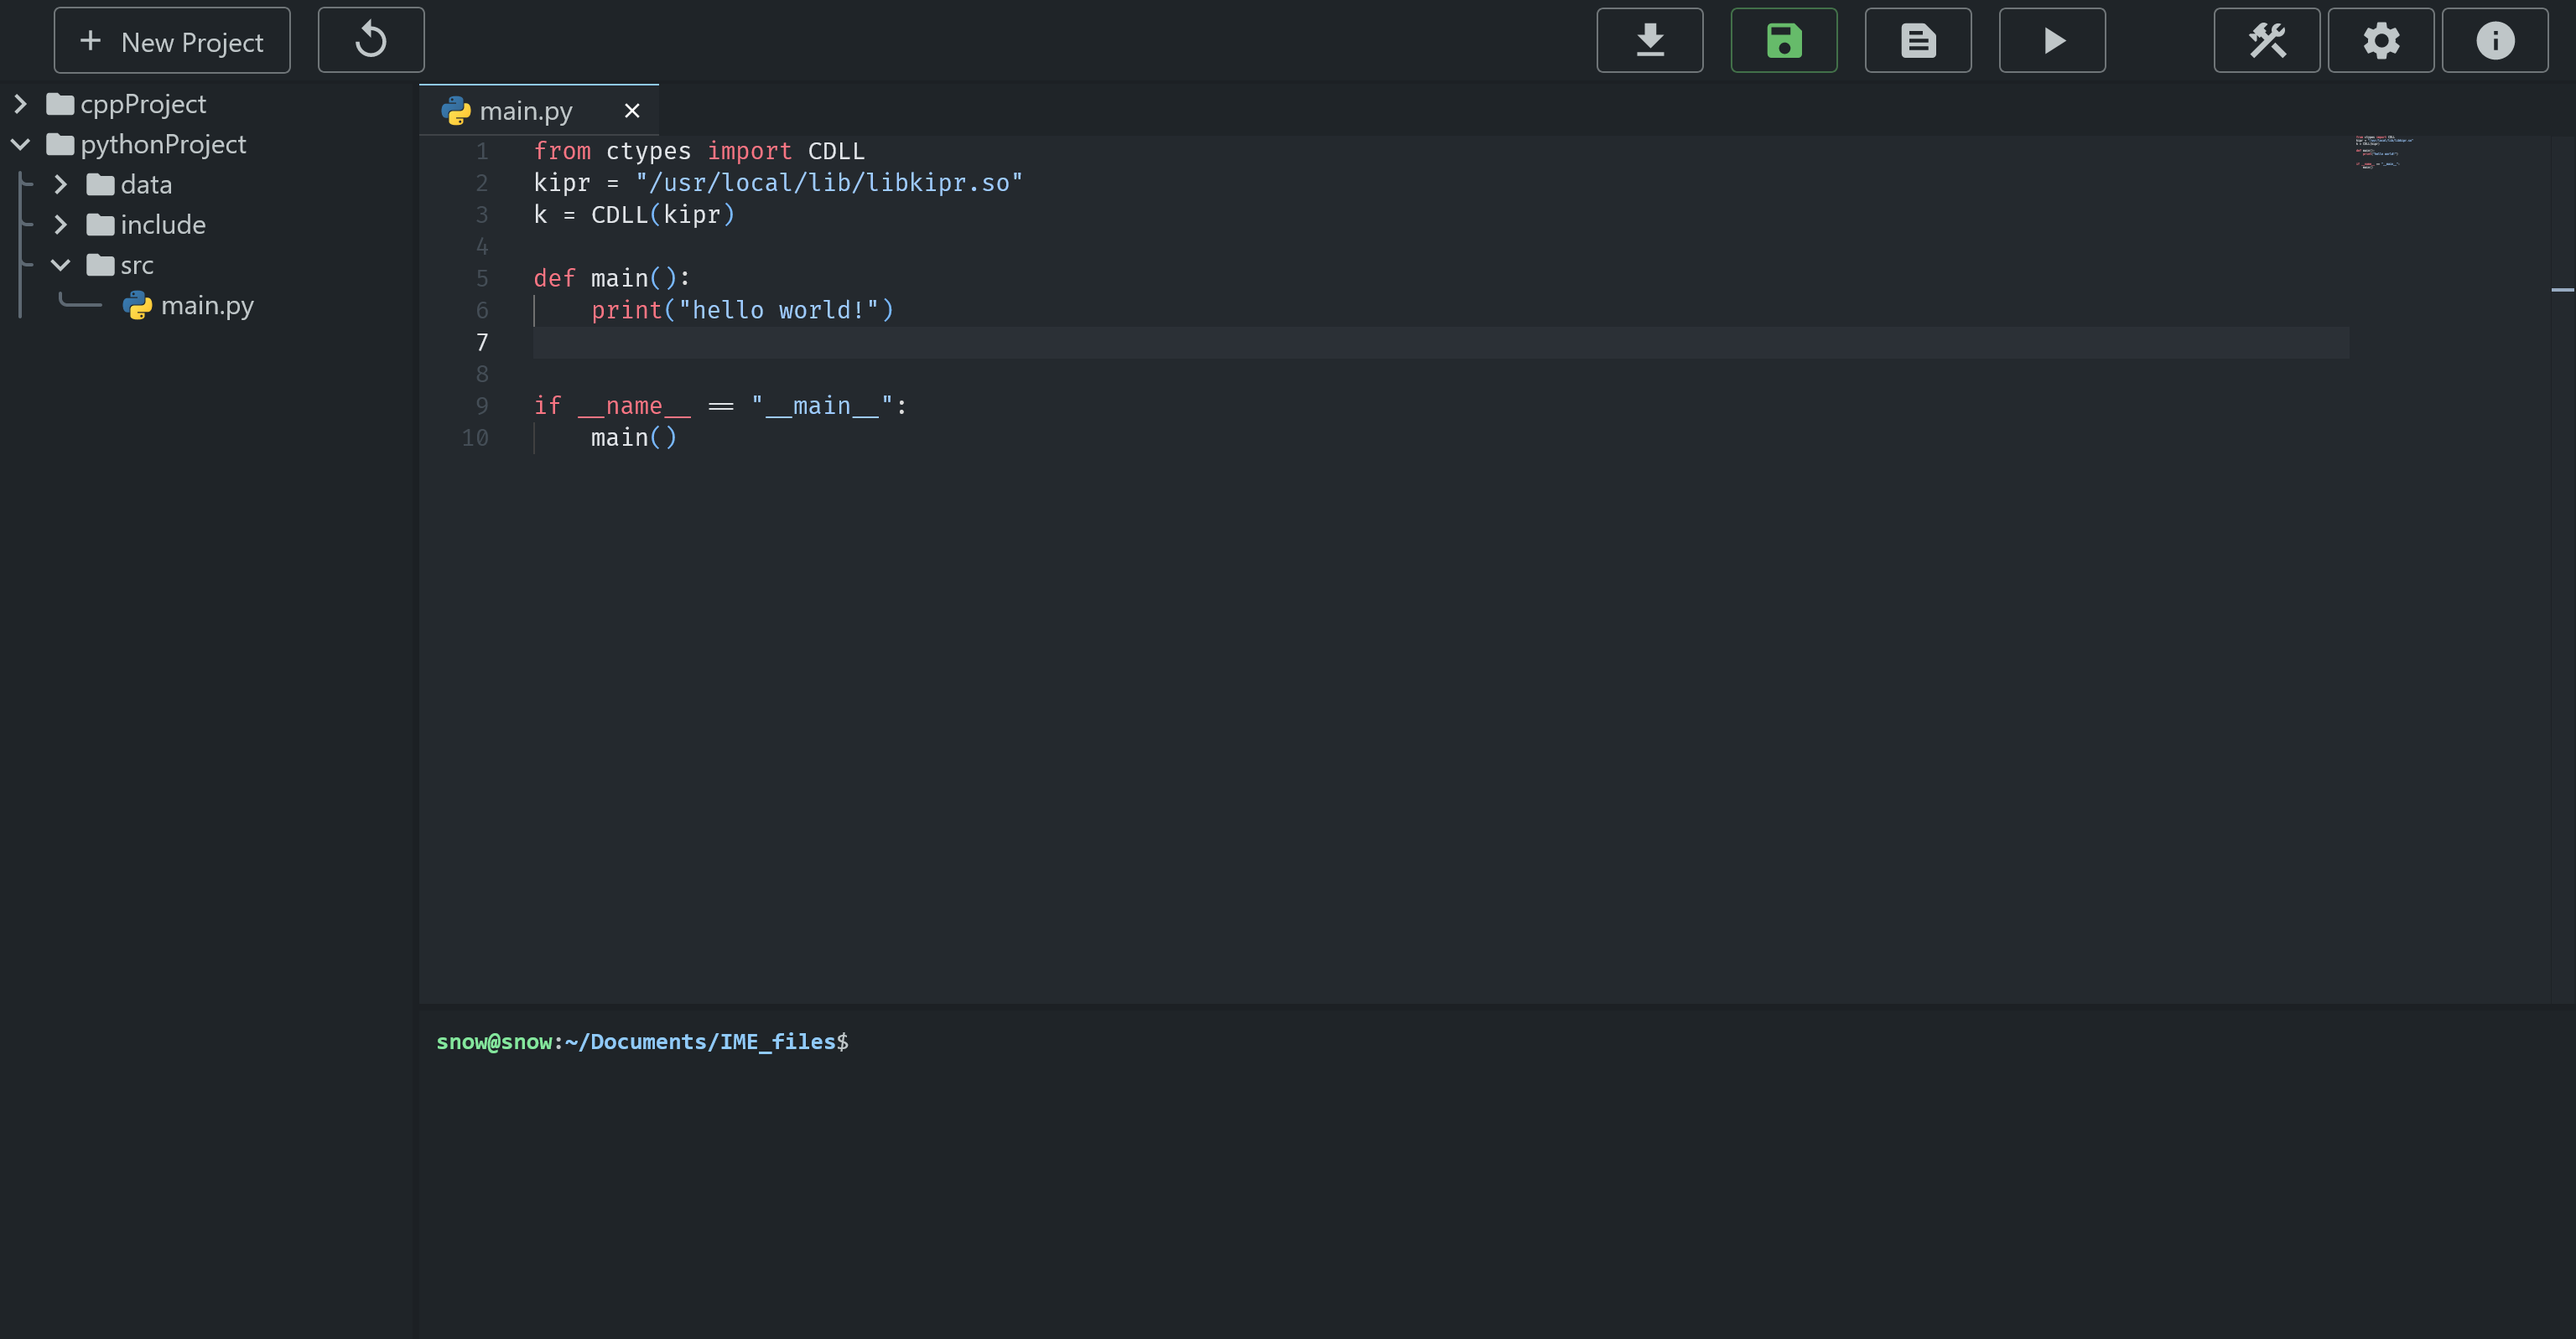
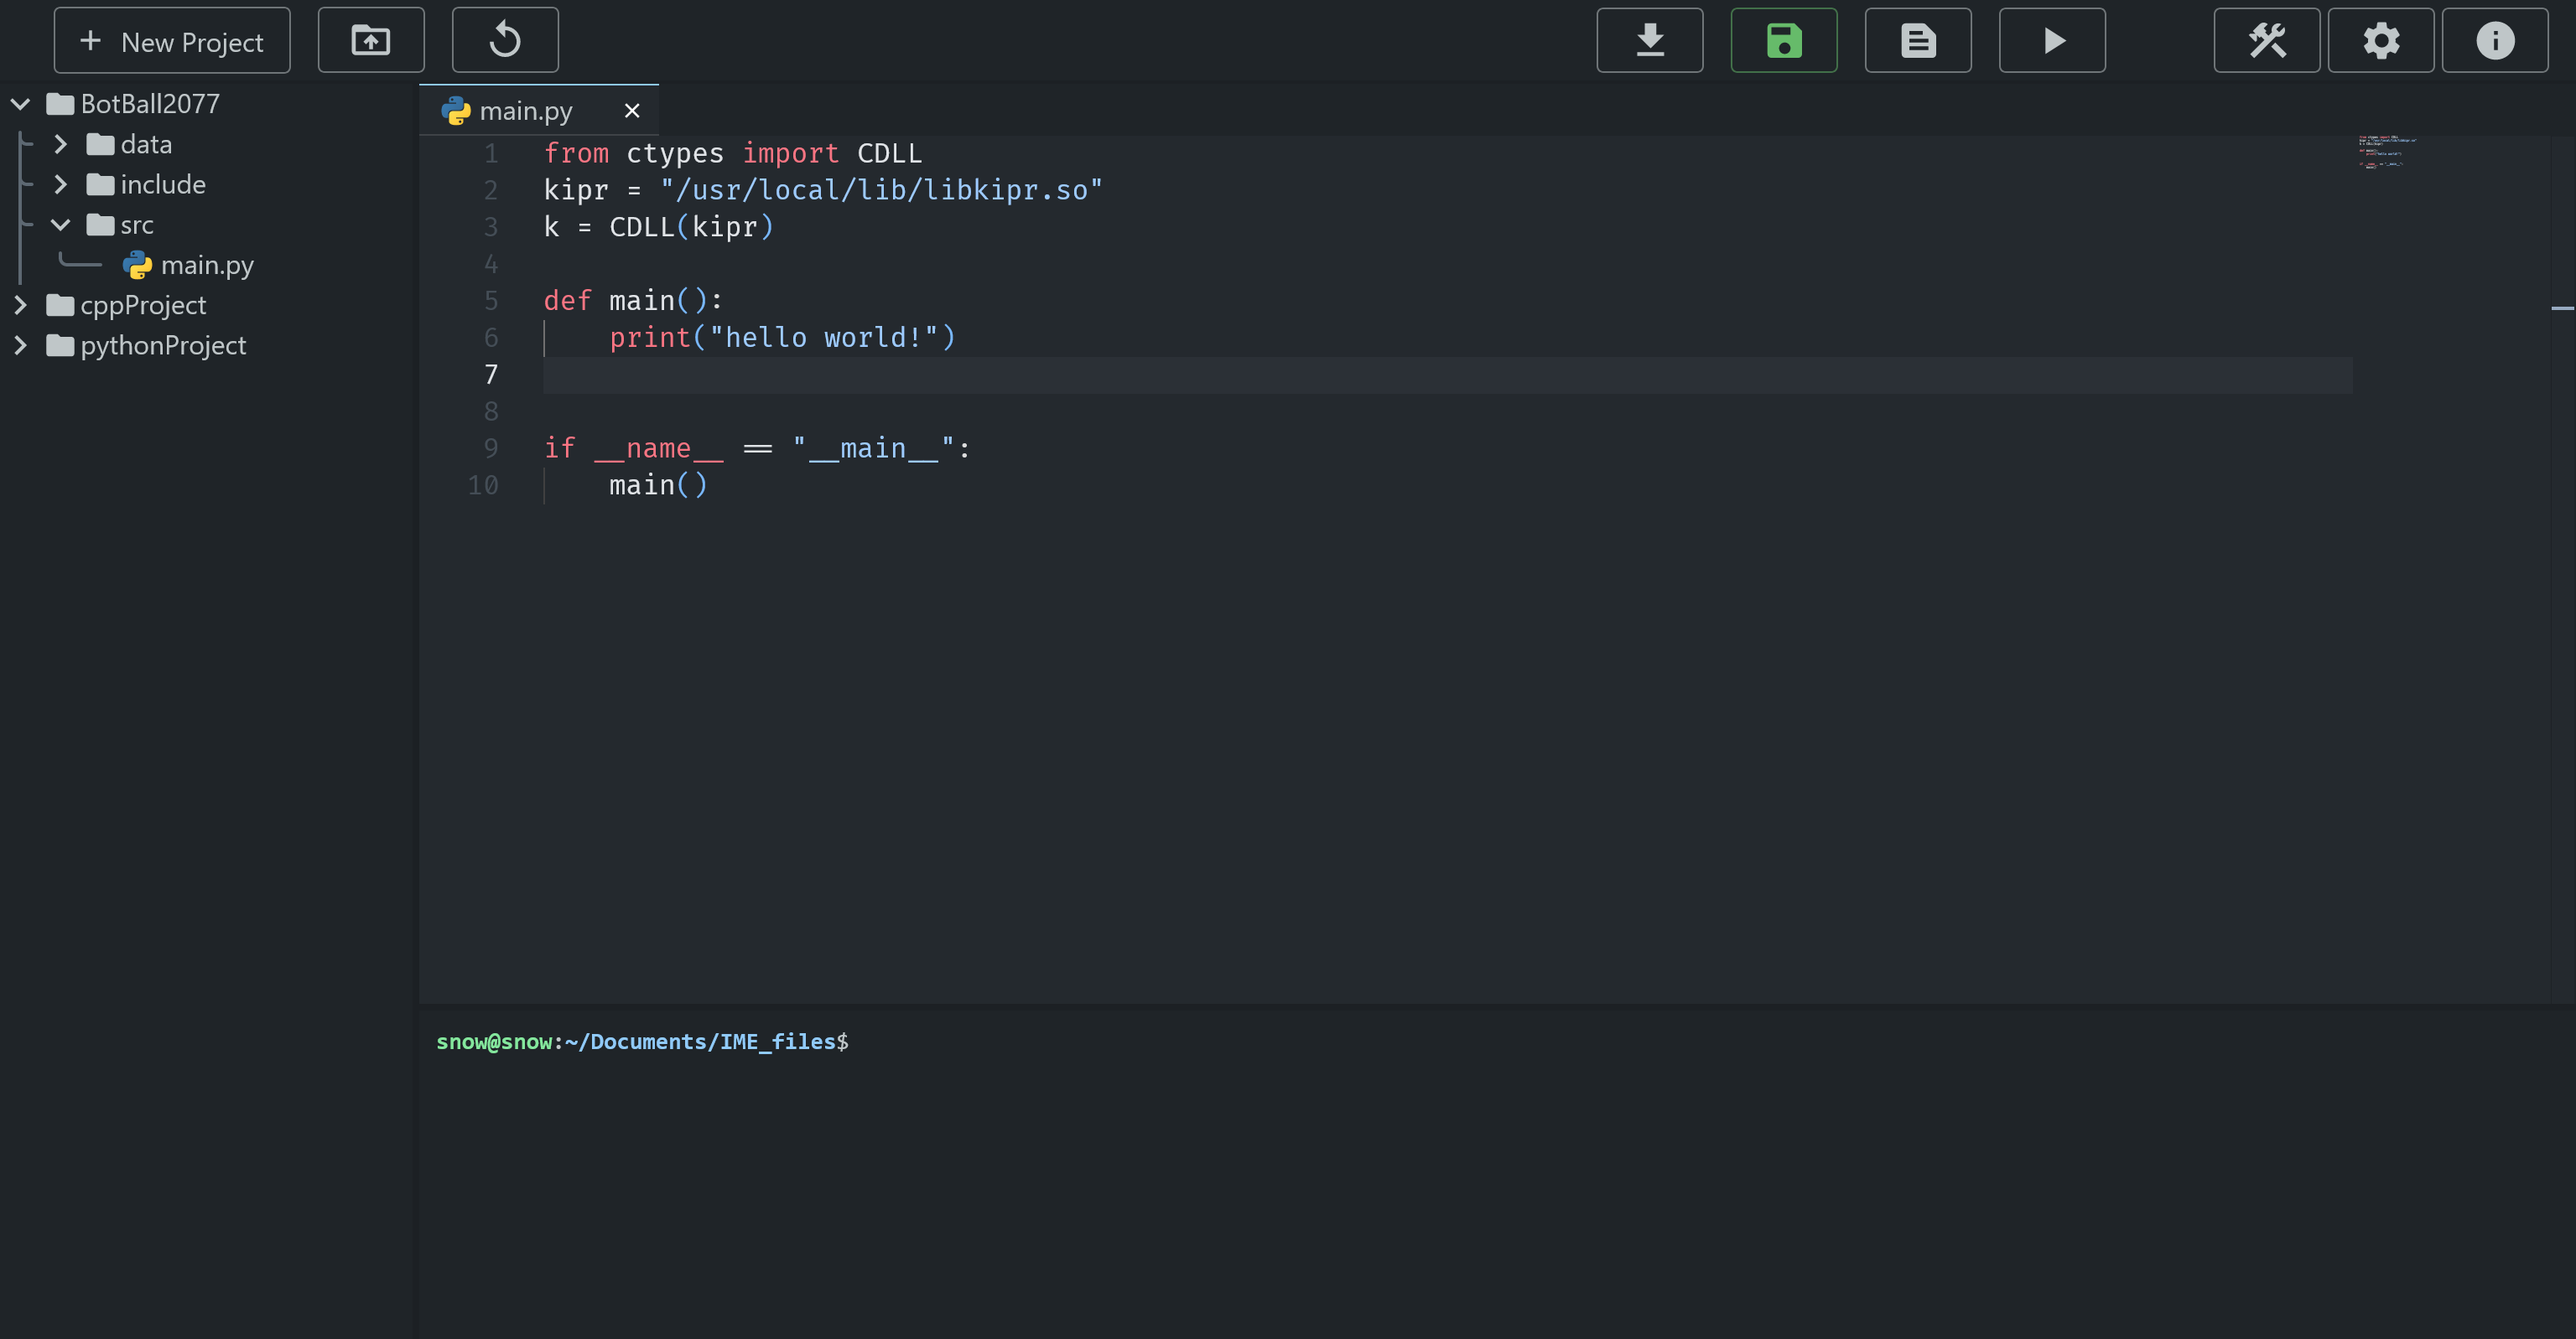
docs: update README and demo image for 1.4.0

diff --git a/README.md b/README.md
@@ -103,6 +103,14 @@ Replace `<your path>` with the path to the cloned folder (such as /home/pi/Docum
 - Download project button
 - MUI button ripple setting
 
+### Version 1.4.0
+- Download zipped project
+- Upload zipped project
+- Save file on file change setting
+- Save button save file or all open files in project setting
+- Switch to different Monaco Editor npm module that is offline compatible
+- Lots of bug fixes with editor and editor tabs
+
 ### Future Plans
 
 - Download project button
